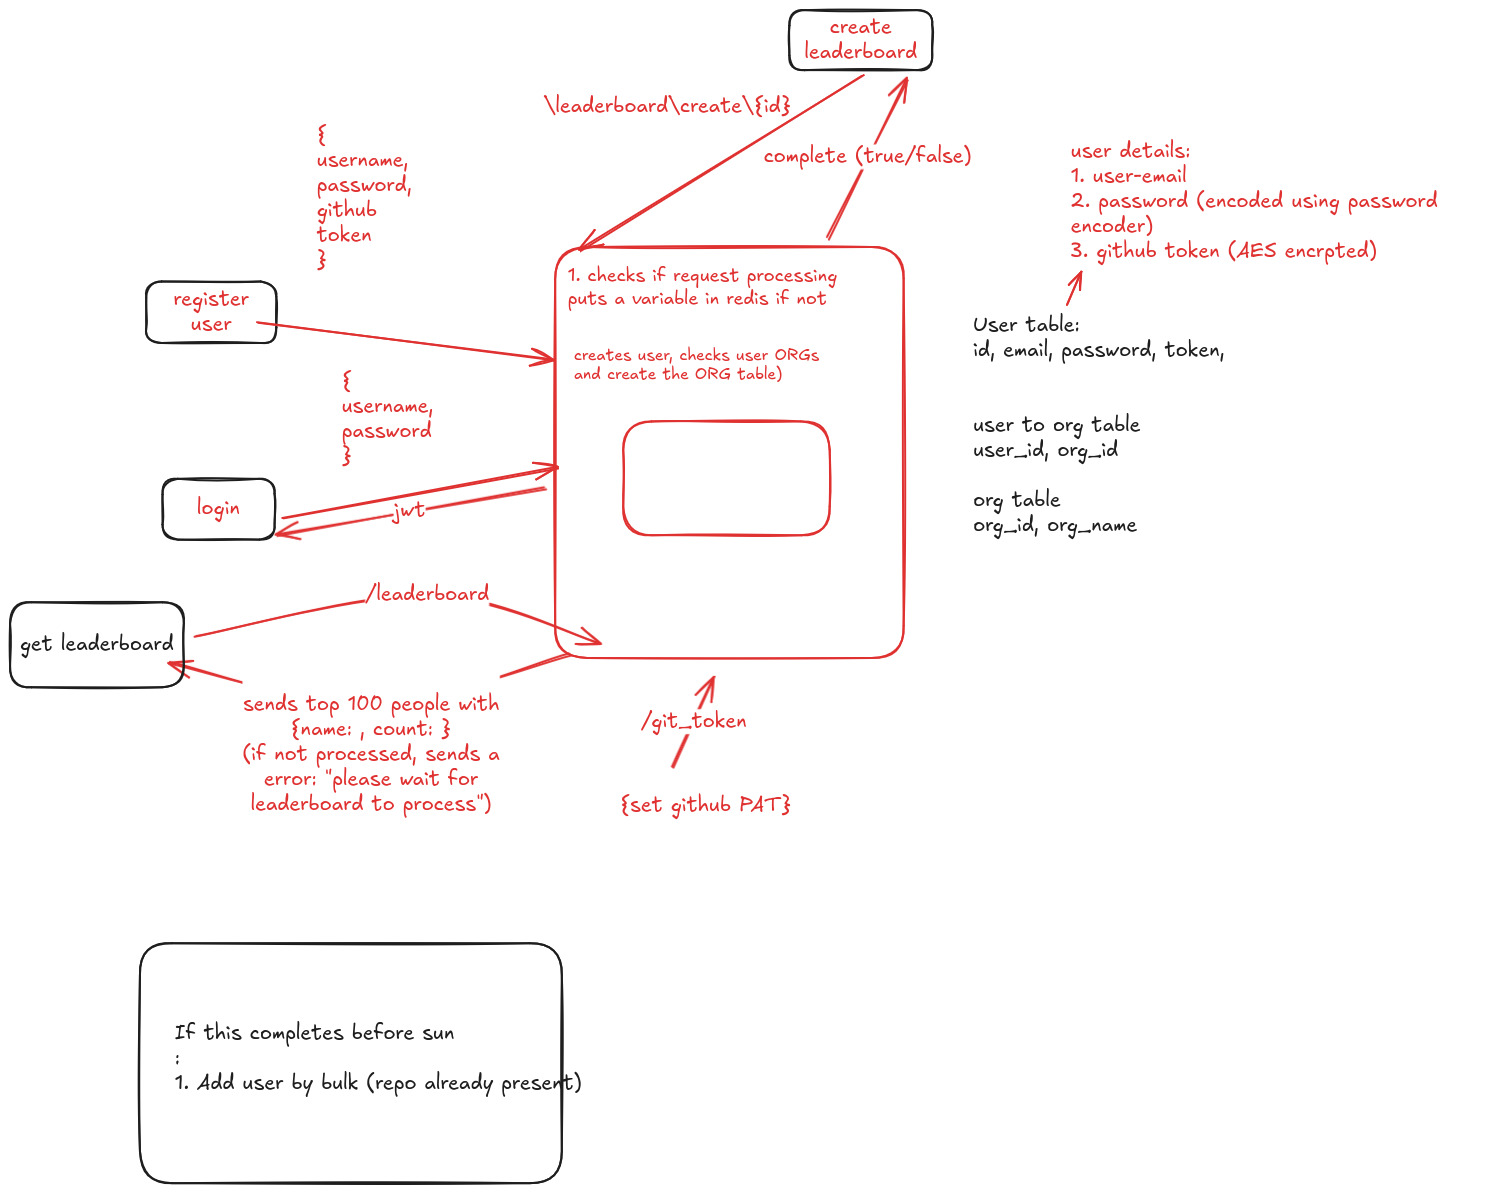
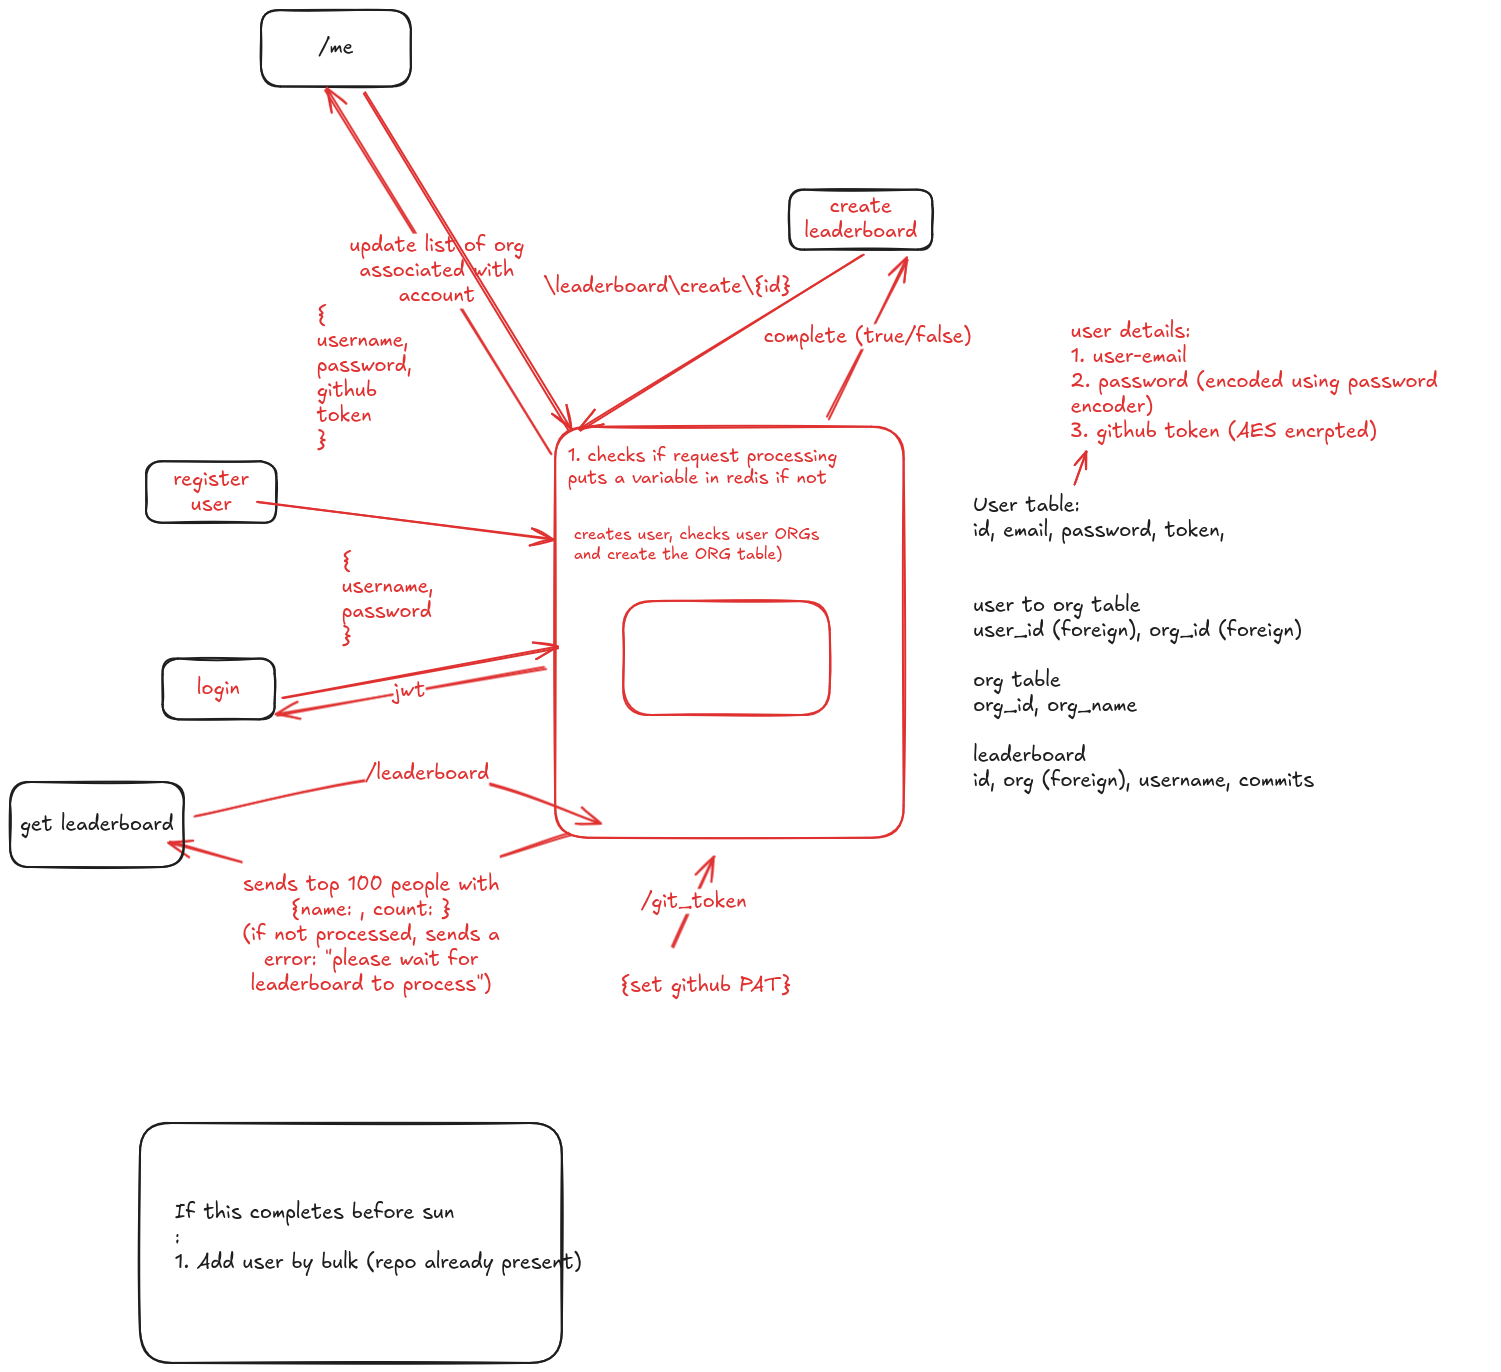
feat: leaderboard repository

diff --git a/src/main/java/com/uni/ghorgtool/models/Leaderboard.java b/src/main/java/com/uni/ghorgtool/models/Leaderboard.java
@@ -1,25 +1,24 @@
 package com.uni.ghorgtool.models;
 
-import java.util.Collection;
-import java.util.List;
+import jakarta.persistence.*;
 
-import org.springframework.security.core.GrantedAuthority;
-import org.springframework.security.core.authority.SimpleGrantedAuthority;
-
-import jakarta.persistence.Column;
-import jakarta.persistence.GeneratedValue;
-import jakarta.persistence.GenerationType;
-import jakarta.persistence.Id;
-
+@Entity
+@Table(name = "leaderboard")
 public class Leaderboard {
+
     @Id
     @GeneratedValue(strategy = GenerationType.IDENTITY)
-    private String id;
+    private Long id;
+
+    @ManyToOne(optional = false)
+    @JoinColumn(name = "org_id")
+    private Org org;
 
     @Column(nullable = false)
     private String username;
 
     @Column(nullable = false)
-    private String commits;
+    private Integer commits;
 
+    // getters and setters
 }

diff --git a/src/main/java/com/uni/ghorgtool/repositories/LeaderboardRepository.java b/src/main/java/com/uni/ghorgtool/repositories/LeaderboardRepository.java
@@ -1,0 +1,16 @@
+package com.uni.ghorgtool.repositories;
+
+import java.util.List;
+
+import org.springframework.data.jpa.repository.JpaRepository;
+import org.springframework.data.jpa.repository.Query;
+import org.springframework.data.repository.query.Param;
+import org.springframework.stereotype.Repository;
+
+import com.uni.ghorgtool.models.Leaderboard;
+
+@Repository
+public interface LeaderboardRepository extends JpaRepository<Leaderboard, Long> {
+    @Query("SELECT l FROM Leaderboard l WHERE l.org.orgId = :orgId ORDER BY l.commits DESC")
+    List<Leaderboard> findByOrgOrderByCommitsDesc(@Param("orgId") Long orgId);
+}

diff --git a/src/main/java/com/uni/ghorgtool/controllers/Leaderboard.java b/src/main/java/com/uni/ghorgtool/controllers/Leaderboard.java
@@ -28,7 +28,7 @@ public class Leaderboard {
         RestTemplate restTemplate = new RestTemplate();
         Map<String, Integer> contributors = new HashMap<>();
         List<Map<String, Object>> repos = new ArrayList<>();
-        String org = leaderboardRequest.getOrg();
+        String org_id = leaderboardRequest.getOrgId();
         String userEmail = authentication.getName();
         Optional<User> userOpt = userService.findByEmail(userEmail);
 

diff --git a/src/main/java/com/uni/ghorgtool/dto/request/LeaderboardRequest.java b/src/main/java/com/uni/ghorgtool/dto/request/LeaderboardRequest.java
@@ -8,5 +8,5 @@ import lombok.Setter;
 @Getter
 @Setter
 public class LeaderboardRequest {
-    private String org;
+    private String orgId;
 }
